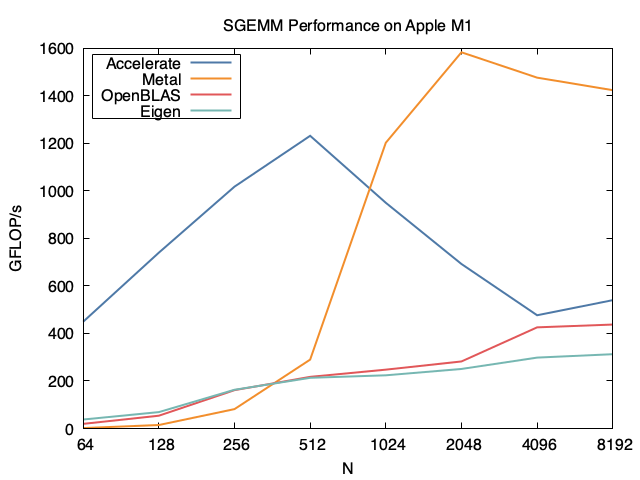
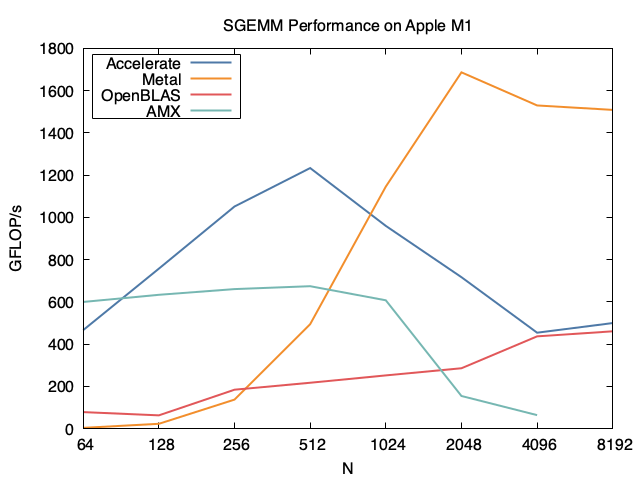
Add my AMX sgemm implemention into benchmark

diff --git a/benchmark/amx_gemm.h b/benchmark/amx_gemm.h
@@ -1,0 +1,50 @@
+#pragma once
+
+#include <type_traits>
+
+#include "gemm.h"
+
+#include "../src/amx_sgemm.h"
+
+template <class T> class AMXGEMM : public GEMM<T>
+{
+protected:
+    size_t n;
+    T *a;
+    T *b;
+    T *c;
+
+public:
+    AMXGEMM(size_t n)
+        : n(n), a(new (std::align_val_t{128}) T[n * n]),
+          b(new (std::align_val_t{128}) T[n * n]),
+          c(new (std::align_val_t{128}) T[n * n])
+    // : n(n), a(new T[n * n]), b(new T[n * n]), c(new T[n * n])
+    {
+    }
+
+    ~AMXGEMM()
+    {
+        delete[] a;
+        delete[] b;
+        delete[] c;
+    }
+
+    virtual void run()
+    {
+        if constexpr (std::is_same<T, float>::value) {
+            amx_sgemm(a, b, c, n);
+        }
+    }
+
+    virtual void init_matrices()
+    {
+        for (int i = 0; i < n; i++) {
+            for (int j = 0; j < n; j++) {
+                a[i * n + j] = static_cast<T>(1.0);
+                b[i * n + j] = static_cast<T>(1.0);
+                c[i * n + j] = static_cast<T>(0.0);
+            }
+        }
+    }
+};

diff --git a/benchmark/main.cpp b/benchmark/main.cpp
@@ -9,8 +9,8 @@
 #include "openblas_gemm.h"
 #elif defined(USE_ACCELERATE)
 #include "accelerate_gemm.h"
-#elif defined(USE_EIGEN)
-#include "eigen_gemm.h"
+#elif defined(USE_AMX)
+#include "amx_gemm.h"
 #elif defined(USE_METAL)
 #include "metal_gemm.h"
 #endif
@@ -65,15 +65,19 @@ int main(int argc, char *argv[])
               << std::left << std::setw(12) << "min(rt)" << std::left
               << std::setw(12) << "max(rt)" << std::endl;
 
+#if defined(USE_AMX)
+    for (size_t i = 6; i < 13; i++) {
+#else
     for (size_t i = 6; i < 14; i++) {
+#endif
         size_t n = 1 << i;
 
 #if defined(USE_OPENBLAS)
         GEMM<DTYPE> *gemm = new OpenBLASGEMM<DTYPE>(n);
 #elif defined(USE_ACCELERATE)
         GEMM<DTYPE> *gemm = new AccelerateGEMM<DTYPE>(n);
-#elif defined(USE_EIGEN)
-        GEMM<DTYPE> *gemm = new EigenGEMM<DTYPE>(n);
+#elif defined(USE_AMX)
+        GEMM<DTYPE> *gemm = new AMXGEMM<DTYPE>(n);
 #elif defined(USE_METAL)
         GEMM<DTYPE> *gemm = new MetalGEMM<DTYPE>(n);
 #endif

diff --git a/README.md b/README.md
@@ -5,7 +5,9 @@ Use AMX to implement sgemm (Single GEneral Matrix Mutiplication).
 The benchmark is ported from
 https://github.com/keichi/m1-benchmarks
 
-It is used to test the `sgemm` (single general matrix multiplication) on m1 mac by using Accelerate Framework, OpenBLAS, Eigen (OpenMP) and Metal (the GPU on m1).
+It is used to test the `sgemm` (single general matrix multiplication) on m1 mac by using Accelerate Framework, OpenBLAS, Eigen (OpenMP) and Metal (the GPU on m1). The origin result of keichi's work is in `benchmark/old_result`, and to rebuild it, you should checkout to *Init*.
+
+I remove the Eigen sgemm and add my `amx_sgemm.h` sgemm. The result is:
 
 ![](benchmark/result/gemm.png)
 
